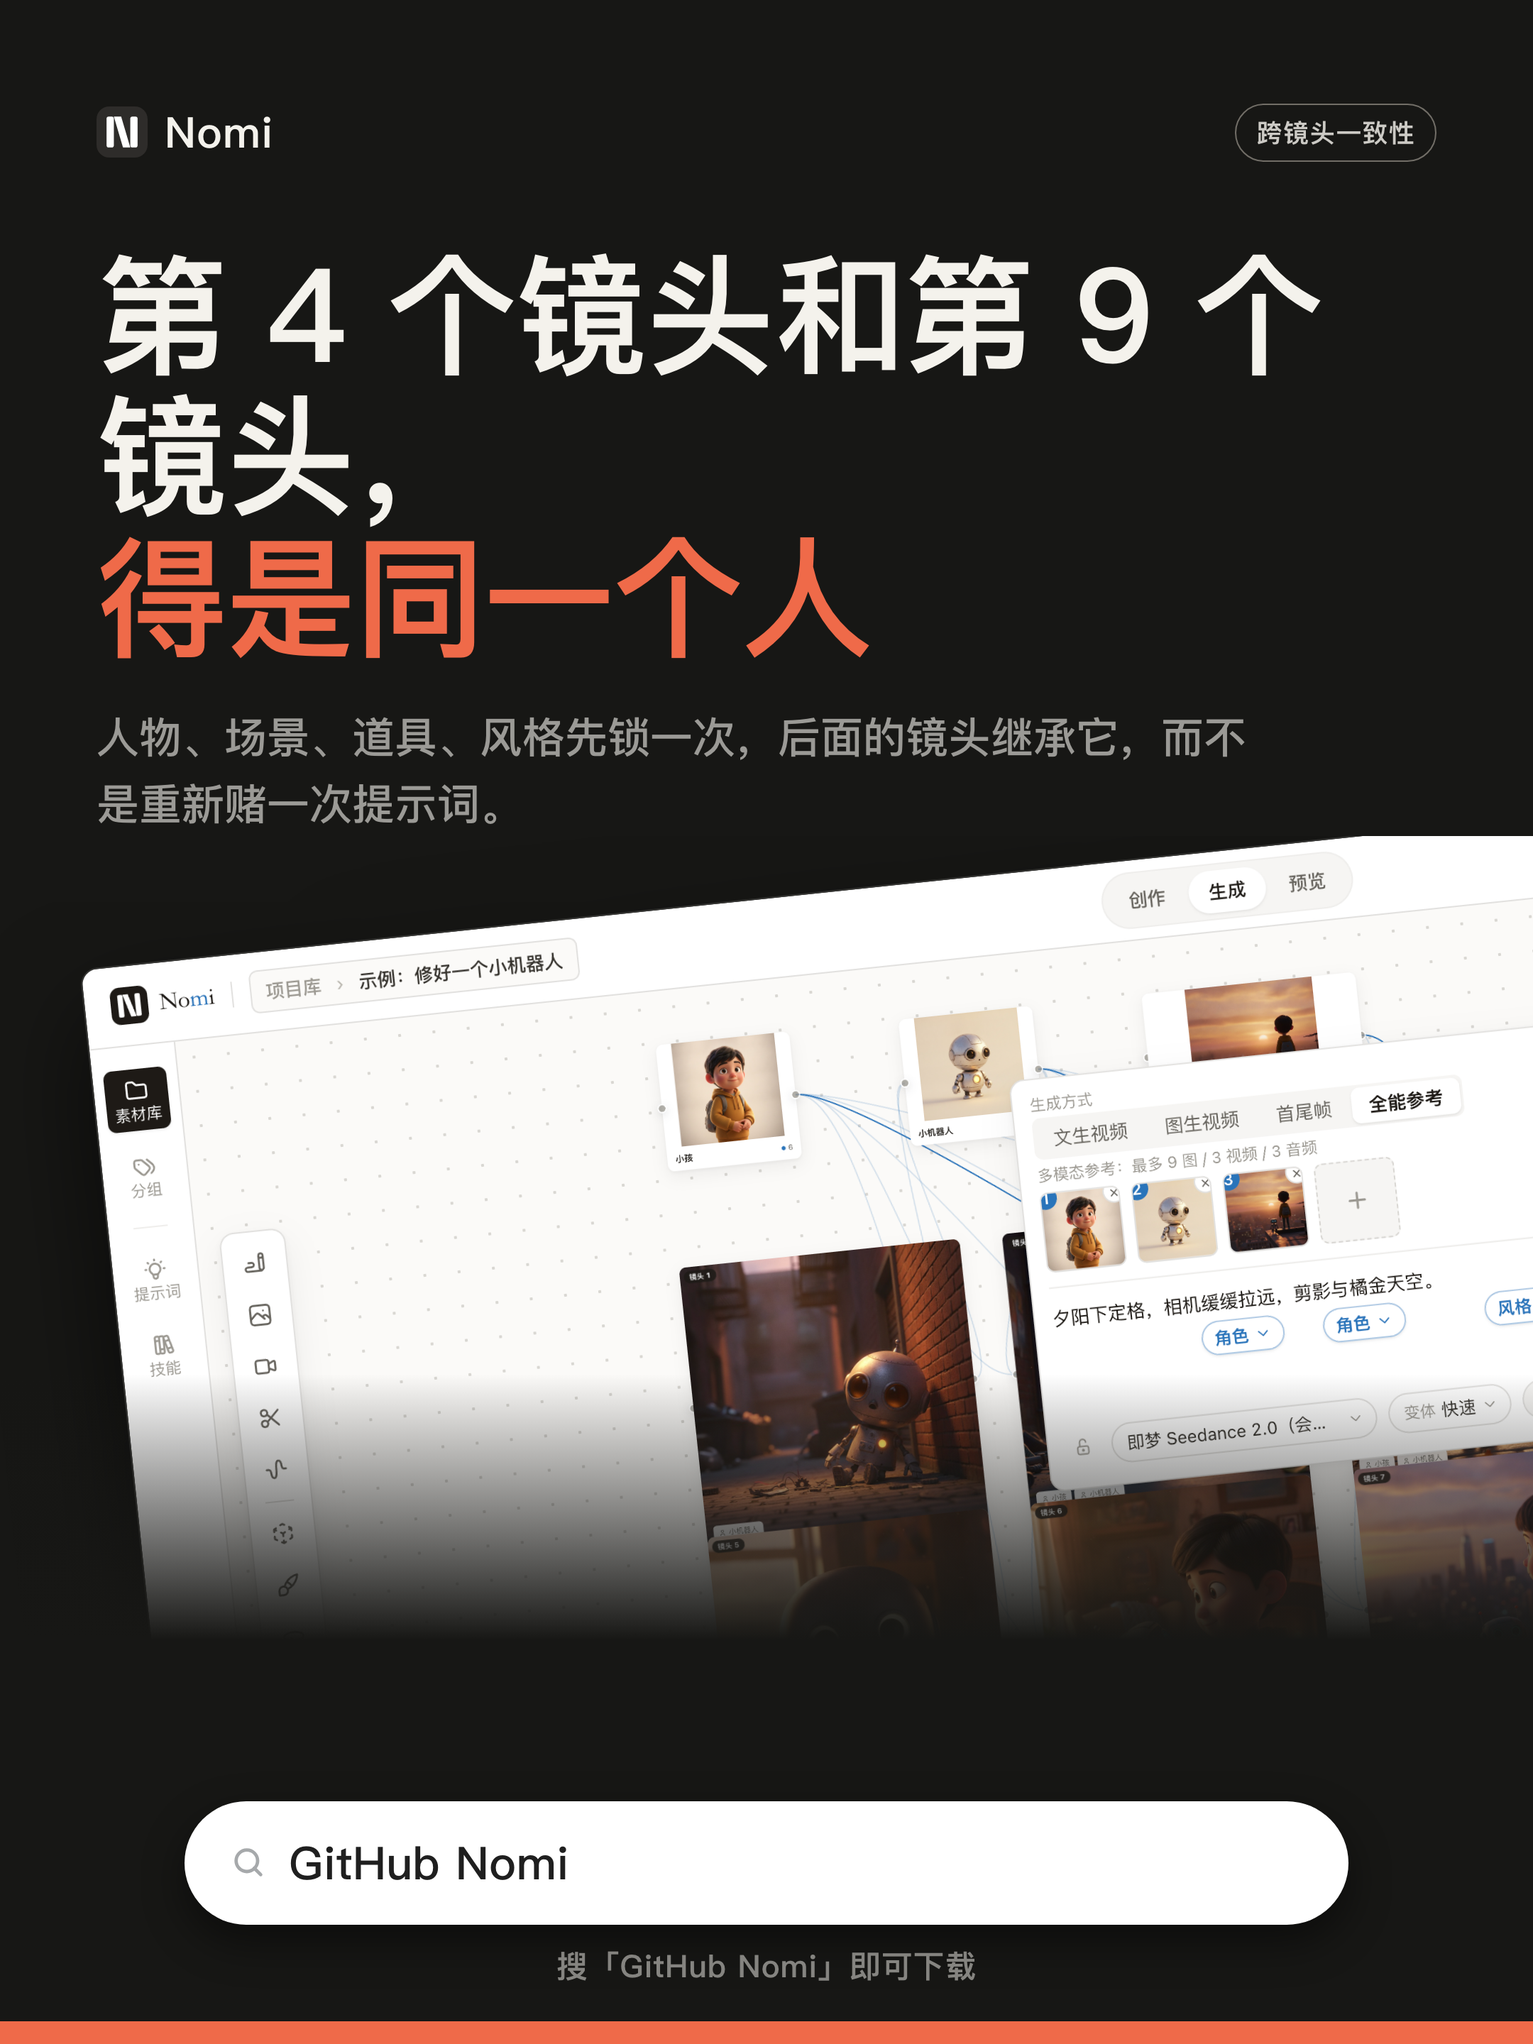
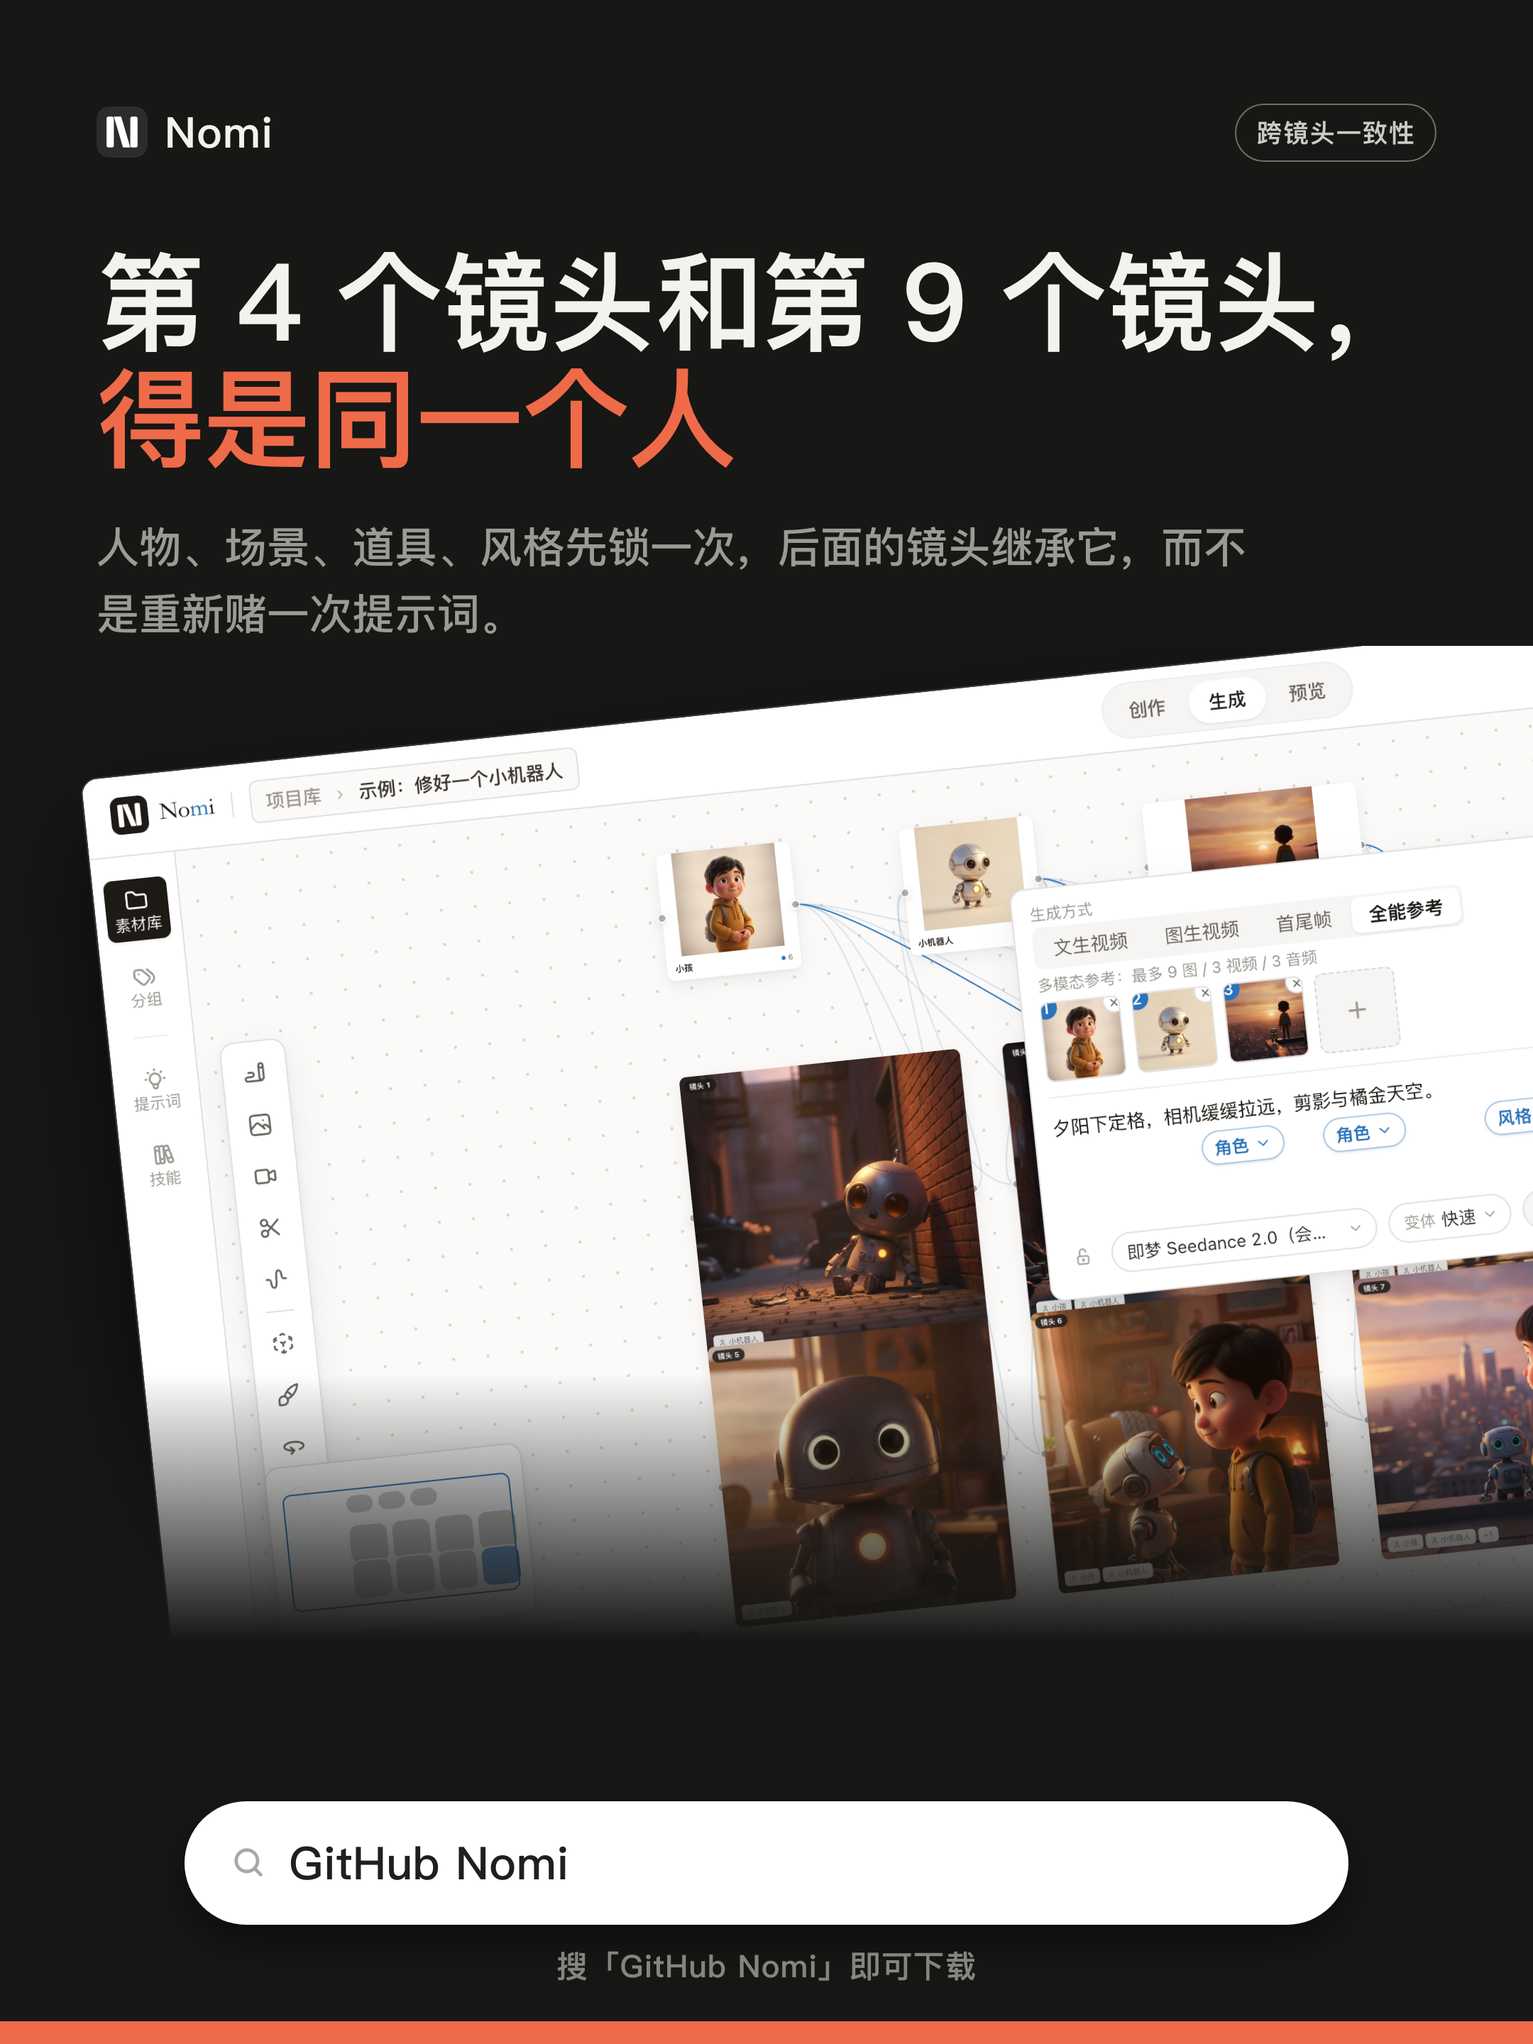
docs(qa): MCP 问题清单 + 海报标题自动收字号
MCP 侧实测踩出 6 个问题，全部带复现与 file:line，最要紧的两个：

M3（P0 最高）经 Claude Code 的 MCP 付费生成 100% 发不出，不是「批量不支持」。
mcpStdioServer.ts:113 用 spendConfirmed 选网关，而该标志只在客户端 elicitation
返回 accept 时为真；Claude Code 不声明该能力 → 恒 false → 退到 createDiskGateway，
它只认 NOMI_LOOP_SPEND_OK 环境变量 → 无 grantId → spendGrant.ts:79 硬拦。
MCP 分支上没接「应用内弹确认卡」，所以 GUI 开着也没用。

M1（P0）内置供应商图生图经 MCP 全废，且已排除打包滞后——装机版 asar 里
Seedream 5 Pro 的 edit mode/image_ref 槽位/inputKey:image_urls 都在。根因是
archetypeInput.ts:47 只在 extras.archetypeInput 有值时才把参考图投影成该 mode
声明的键，而 MCP 路径（core.ts:293）从没填过它，参考图停在通用键
reference_images，taskParams.ts:260 校验发现 body 引用的 image_urls 不存在 → 拒发。
modelscope 能过是因为通用中转模板的 body 引用的就是标准键。

海报工厂侧：
- 标题按 spec 断行自动收字号（widest > limit 就降 2px），否则每加一条文案都要
  手调字号，批量就不成立。A2 自动收到 76px，孤字掉行消失
- 验证 board 氛围层通路（opacity .5 + 165° 渐变遮罩），并给出 GUI 里生成底板的
  提示词——底板受 M3 阻塞只能走 GUI，但纯 ink 底已经成立，非前置依赖

diff --git a/docs/qa/2026-08-20-mcp-issues.md b/docs/qa/2026-08-20-mcp-issues.md
@@ -1,0 +1,141 @@
+# MCP 问题清单（2026-08-20 实测）
+
+> 来源：用 MCP 批量出营销海报时逐条踩出来的，全部有复现步骤。
+> 环境：装机版 **v0.20.0**（`/Applications/Nomi.app`，asar mtime 2026-08-17 17:12），客户端 Claude Code。
+> ⚠ 排查提醒：**MCP server 就是装机 app**，改源码不重新打包看不到效果；但下面 M1 已确认**不是**打包滞后，是真 bug。
+
+---
+
+## M1 · 内置供应商的图生图经 MCP 全废（P0，真 bug）
+
+**现象**：`nomi_generate` 带 `references` 调 apimart 的任何图像模型，一律被拒：
+
+> 模型「Seedream 5.0 Pro」在这个接入方式下发不出：参考图。连上的这些素材不会进入请求——为免白扣费这次不发。
+
+**实测矩阵**：
+
+| vendor / modelKey | 带参考图 | 结果 |
+|---|---|---|
+| apimart / `doubao-seedream-5-0-pro` | ✓ | ✗ 拒发 |
+| apimart / `gemini-2.5-flash-image-preview` | ✓ | ✗ 拒发 |
+| apimart / `qwen-image-2.0` | ✓ | ✗ 拒发 |
+| modelscope / `Qwen/Qwen-Image-Edit-2511` | ✓ | ✓ **通过**（卡在 M3 付费闸） |
+
+**不是能力缺失**——装机版 asar 里 Seedream 5.0 Pro 的 mode 定义完整：
+```js
+{id:"edit", intent:"edit", vendorTerm:"改图", transportTaskKind:"image_edit",
+ slots:[{kind:"image_ref", label:"输入图", min:1, max:10, inputKey:"image_urls"}]}
+```
+
+**根因链路**：
+1. [core.ts:293](../../electron/capabilityCore/core.ts:293) — MCP 路径正确推断出 `kind = image_edit`，参考图放进 `extras.referenceImages`
+2. [archetypeInput.ts:42](../../electron/catalog/archetypeInput.ts:42) — `referenceInputParams` 把它映射到**通用键** `reference_images`
+3. [archetypeInput.ts:47](../../electron/catalog/archetypeInput.ts:47) — 只有 `extras.archetypeInput` 有值时才 `Object.assign` 投影成该 mode 声明的键（`image_urls`）。**MCP 路径从没填过 `archetypeInput`**（UI 路径由渲染层按 slot 定义填）
+4. [taskParams.ts:260](../../electron/catalog/taskParams.ts:260) `unreachableReferenceLabels` — 渲染 body 引用的键、逐条比对参考 URL 在不在里面。apimart 的 body 引用 `{{request.params.image_urls}}`，该键不存在 → 判定发不出 → 拒发
+
+**为什么 modelscope 能过**：通用中转模板的 body 引用的就是标准键，正好接得住 `reference_images`。[archetypeInput.ts:44-46](../../electron/catalog/archetypeInput.ts:44) 的注释自己写了：「内置家零影响：它们的 body 只引用各自声明的键」——**这句话描述的正是这个 bug 的成因**。
+
+**影响面**：不止海报。任何经 MCP 的图生图 / 首帧图生视频 / 多图参考，只要走内置家（apimart / kie / 火山 / RunningHub）就全部发不出去。UI 里能用、MCP 里不能用，这是两条路走岔了。
+
+**修复方向**：MCP 侧在推断出 `kind` 之后，应按该 mode 的 `slots[].inputKey` 把参考图投影进 `extras.archetypeInput`，让两条路共用同一套投影逻辑（现在渲染层有、主进程没有 → 建议把投影下沉到 `capabilityCore`，UI 和 MCP 都调它，避免再分叉）。
+
+**复现**：
+```
+nomi_generate(projectId, vendor:"apimart", modelKey:"doubao-seedream-5-0-pro",
+              intent:"image", prompt:"任意", references:["https://任意可达图片URL"])
+```
+
+---
+
+## M2 · 本地文件无法经 MCP 进系统（P0，能力缺口）
+
+**现象**：`nomi_generate` 的 `references` 只收 URL 字符串数组。本地 PNG 没有任何 MCP 入口。
+
+**证据**：
+- [mcpToolCatalog.ts:271](../../electron/capabilityCore/mcpToolCatalog.ts:271) — `references: { type:'array', items:{type:'string'}, description:'参考图 URL（可选）' }`
+- `importLocalFile`（`electron/.../localFileImport.ts`）存在于 runtime，**未暴露成 MCP 工具**
+- 整份 `mcpToolCatalog.ts` 无 import / upload / addAsset 工具
+
+**影响**：Agent 想拿本机素材（截图、用户给的参考图、上一步的产物文件）当参考，只能靠人手先在 UI 里拖进去。「让 Agent 端到端跑完」这个卖点在素材侧断了。
+
+**已验证绕法**：素材放公开仓库，用 GitHub raw 链接。
+`https://raw.githubusercontent.com/aqm857886159/Nomi/main/marketing/assets/screen-canvas-2026-08-17.png` → `curl -I` 返回 200，可用。
+但这只对开源仓库里的素材成立，用户自己的私有素材无解。
+
+**修复方向**：加一个 `nomi_import_asset(projectId, path)` MCP 工具，落盘为项目素材并返回 `nomi-local://` URL；后续 `localizeAssetsForVendor` 已有的上传/base64/流传策略可直接接上。
+
+---
+
+## M3 · Claude Code 下付费生成 100% 发不出（P0，不是「批量」问题）
+
+**现象**：任何 `nomi_generate` 付费调用，**一次都发不出去**，不是「每张要点一次」：
+
+> ✗ 此付费生成未经用户确认（缺少授权令牌），已拦截。
+
+**根因链路**（比想象的严重，没有「点一下就行」的路径）：
+1. [mcpStdioServer.ts:113](../../electron/capabilityCore/mcpStdioServer.ts:113) — `const makeGateway = options?.spendConfirmed ? makeConfirmedGateway : createDiskGateway`
+2. `spendConfirmed` 只在客户端经 elicitation 返回 `action:'accept' + confirm:true` 时为真（[gateway.ts:78](../../electron/capabilityCore/gateway.ts:78) 注释写明信任边界）。**Claude Code 不声明 elicitation 能力 → 恒 false**
+3. 于是落到 [gateway.ts:129](../../electron/capabilityCore/gateway.ts:129) `createDiskGateway.confirmSpend` — 它只认 `process.env.NOMI_LOOP_SPEND_OK === '1'`，否则返回 `null`
+4. 无 grantId → [spendGrant.ts:79](../../electron/spendGrant.ts:79) `assertAndConsumeSpendGrant` 主进程硬拦
+
+**关键点：MCP 分支上没有接「应用内弹确认卡」这条路。** GUI 开着也没用——`createDiskGateway` 是为无窗口 headless 设计的，而进程内 MCP server 在没拿到 elicitation 确认时就退到了它。结果是：**GUI 里点生成能用，Claude Code 经 MCP 发同样的生成，一次都发不出。**
+
+**顺带的次级问题**：即使解决了上面这条，`spendGrant` 的 `maxAttemptsPerNode` 也只支持**同一节点重试 N 次**，不支持**一次授权跑 N 个不同节点**；`automationPolicyContract.ts` 的 `maxSpend` / `autoContinueWithinBudget` 只在 playbook 编排（`productionRunDriverOps.ts`）里检查，管不到 `nomi_generate` 单次调用。
+
+**影响**：
+- 「让你的 AI 助手替你导演」这个核心主张，在最主流的 MCP 客户端（Claude Code）上，**一碰到要花钱的那一步就断**。免费的画布操作能跑，一到生成就死。
+- 我们自己出营销底板卡在这；真实用户拿 Claude Code 驱动 Nomi 也会卡在同一处。
+- 用户会体验成「MCP 是个半成品」——前面都跑通了，最后一步永远失败。
+
+**修复方向**（按性价比排序）：
+1. **MCP 分支接上应用内确认卡**：进程内 MCP server 在 app 有窗口时，`confirmSpend` 应转发到渲染层弹卡（就是 GUI 现在走的那条路），而不是退到 `createDiskGateway`。这是最小修复，也最符合直觉——人就在电脑前，卡弹出来他点一下即可
+2. `spendGrant` 支持「一次授权 N 次 / X 元额度内不再问」，令牌带次数与金额双上限
+3. 加 MCP 工具 `nomi_request_spend_budget(amount, count)`，Agent 显式申请一次批量额度，GUI 弹一次卡覆盖后续 N 次
+
+> 注：不建议让 Agent 能设 `NOMI_LOOP_SPEND_OK` —— 那是脚本/评测的显式授权口，红队边界（「Nomi 的 AI 触发不了未确认的付费生成」）不能从这里破。
+
+---
+
+## M4 · `nomi_list_models` 列出没配 key 的模型（P1，体验）
+
+**现象**：`nomi_list_models` 返回 kie 的全部模型（GPT Image 2 i2i、Nano Banana、Seedream 4.5…），但一发就报：
+
+> ✗ API key missing: kie
+
+**影响**：Agent 只能靠「试错 + 撞错误」来发现哪些模型真能用，每次撞都是一轮无效往返。对「让 Agent 自己选型」这条路是直接的阻碍。
+
+**修复方向**：返回结构里加 `available: boolean` / `unavailableReason: 'no_api_key' | ...`，或默认只返回可用的、加参数才返回全量。
+
+---
+
+## M5 · `nomi_generate` 缺画幅 / 种子等关键参数（P2）
+
+**现象**：入参只有 `projectId / vendor / modelKey / intent / prompt / references / nodeId`（[mcpToolCatalog.ts:257](../../electron/capabilityCore/mcpToolCatalog.ts:257)）。没有 size / aspect_ratio / seed / 数量。
+
+**影响**：
+- 出竖版海报只能在 prompt 里写「竖版 3:4」赌模型理解，实际上装机版 Seedream 5 Pro 的 `size` 选项是 `["16:9","9:16","1:1"]`，**根本没有 3:4**，默认 `16:9`
+- 没有 seed → 同一 prompt 出不了可复现的结果，系列风格一致性只能靠参考图（而参考图又被 M1 挡着）
+
+**修复方向**：`nomi_generate` 增加可选 `params` 对象透传给 archetype，或至少暴露 `size` / `seed` 两个高频项。
+
+---
+
+## M6 · `nomi_add_nodes` 建不出带参考图的节点（P2）
+
+只有 `nomi_generate` 能带 `references`；`nomi_add_nodes` 的节点字段只有 `kind / title / prompt / vendor / modelKey / x / y`（[mcpToolCatalog.ts:47](../../electron/capabilityCore/mcpToolCatalog.ts:47)）。
+Agent 只能先建节点、再靠 `nomi_connect_nodes` 连线来表达参考关系，多一次往返，且连线的 source 必须已经是画布上的素材节点——本地素材又回到 M2。
+
+---
+
+## 优先级建议
+
+| # | 问题 | 优先级 | 为什么 |
+|---|---|---|---|
+| M3 | Claude Code 下付费生成 100% 发不出 | **P0 最高** | 「AI 助手替你导演」的主张在最主流客户端上，一到花钱那步就断。前面全跑通、最后一步永远失败，体验上等于 MCP 是半成品 |
+| M1 | 内置家图生图经 MCP 全废 | **P0** | 能力在、路走岔，补一个投影就能修好；影响所有内置供应商的图生图/首帧图生视频/多图参考 |
+| M2 | 本地文件进不来 | **P0** | Agent 端到端在素材侧断了；开源仓库素材可用 raw URL 绕，用户私有素材无解 |
+| M4 | 模型列表不标可用性 | P1 | 便宜，收益立竿见影；否则 Agent 只能靠撞错误发现哪些能用 |
+| M5 | 缺画幅/种子参数 | P2 | 有 prompt 兜底，但复现性差；且 Seedream 5 Pro 的 size 选项里根本没有 3:4 |
+| M6 | 节点建不出参考 | P2 | 有绕法（先建节点再连线），只是多一次往返 |
+
+**一句话**：M3 和 M1 加起来，等于「经 Claude Code 用 MCP 出图」这条链**当前完全不通**——M1 挡住带参考图的，M3 挡住所有花钱的。两条都修好，才算兑现了 README 上那句「让 Claude Code 经 MCP 直接开工」。

diff --git a/docs/marketing/2026-08-20-poster-factory.md b/docs/marketing/2026-08-20-poster-factory.md
@@ -120,10 +120,26 @@ node scripts/render-marketing-posters.mjs A1-one-project B2-3d-stage
 3. `node scripts/render-marketing-posters.mjs`
 4. 人眼过一遍，发小红书 / B站 / 即刻
 
-**要加氛围底板时**（可选，花额度）：
-1. `nomi_generate` 出底板（modelscope / Qwen-Image-Edit-2511 + 参考图 URL），GUI 里点确认
-2. 产物存到 `marketing/assets/boards/<name>.png`
-3. spec 里填 `"board": "marketing/assets/boards/<name>.png"`，重跑渲染
+### 加氛围底板（L1，可选）
+
+**通路已验证**：spec 填 `board` 后，底板以 `opacity:.5` 铺满，上面盖一层 165° 渐变遮罩压到纯 ink，文字与截图可读性不受影响。用 `marketing/assets/demo-poster.jpg` 实渲染确认过。
+
+**但现在生成不了**：见 `docs/qa/2026-08-20-mcp-issues.md` 的 M3——经 Claude Code 的 MCP，付费生成 100% 发不出，不是「点一下就行」。**底板只能在 Nomi GUI 里手动生成**，或等 M3 修好。
+
+**GUI 里生成底板的提示词**（竖版选 9:16，横版选 16:9；出完存到 `marketing/assets/boards/<name>.png`，spec 里填路径即可）：
+
+```
+抽象氛围背景，无任何文字、无任何界面元素、无人物。
+深暖灰近黑色（#171715）为主调，画面右上方有一束极柔和的暖橙色光晕（#ef6a49），
+强度很低，像是暗房里远处的一盏灯。整体极简、大量纯净暗部、轻微胶片颗粒。
+不要渐变色带，不要几何图形，不要网格，不要科技感线条，不要发光粒子。
+质感参考：高端产品发布会主视觉的背景板，克制、昂贵、留白。
+```
+
+变体做法（保证系列一致）：把第一张出好的底板当参考图，改一句「光源移到左下」「光晕换成更冷的灰蓝」，出 3-5 张同源变体。
+> ⚠ 参考图这条也被 M1 挡着（内置家经 MCP 发不出参考图）——但 **GUI 里是好的**，UI 路径会正确投影参数键。所以底板全流程走 GUI 即可。
+
+**先不填也完全成立**：当前 6 张都是纯 ink 底，已经够干净。底板是锦上添花，不是前置依赖。
 
 ---
 
